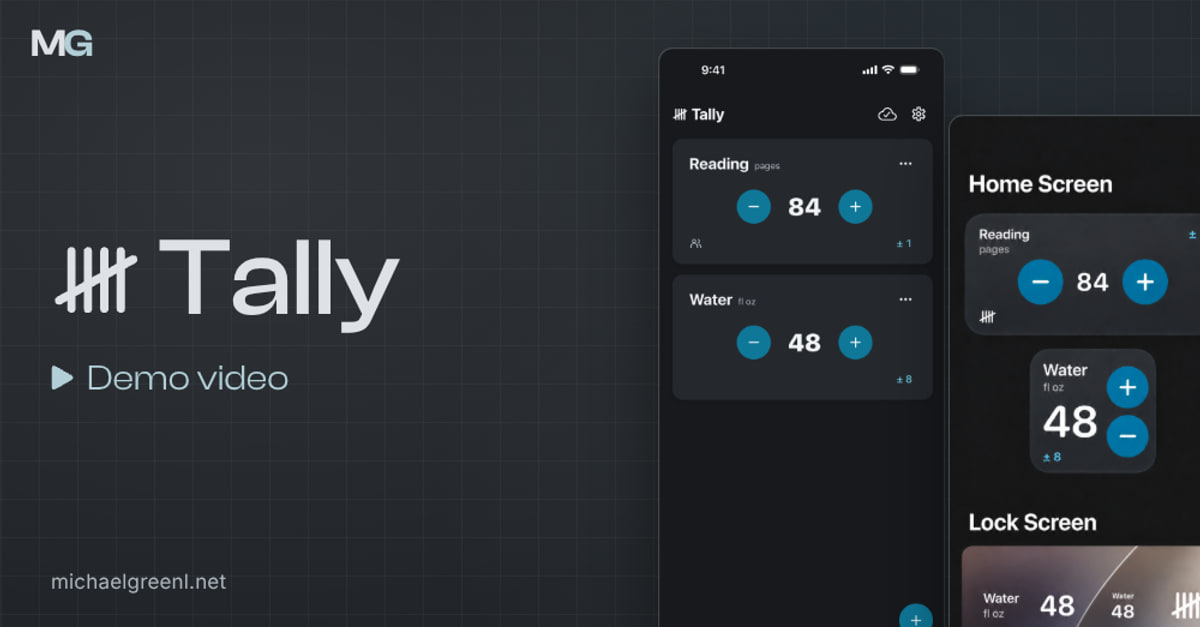
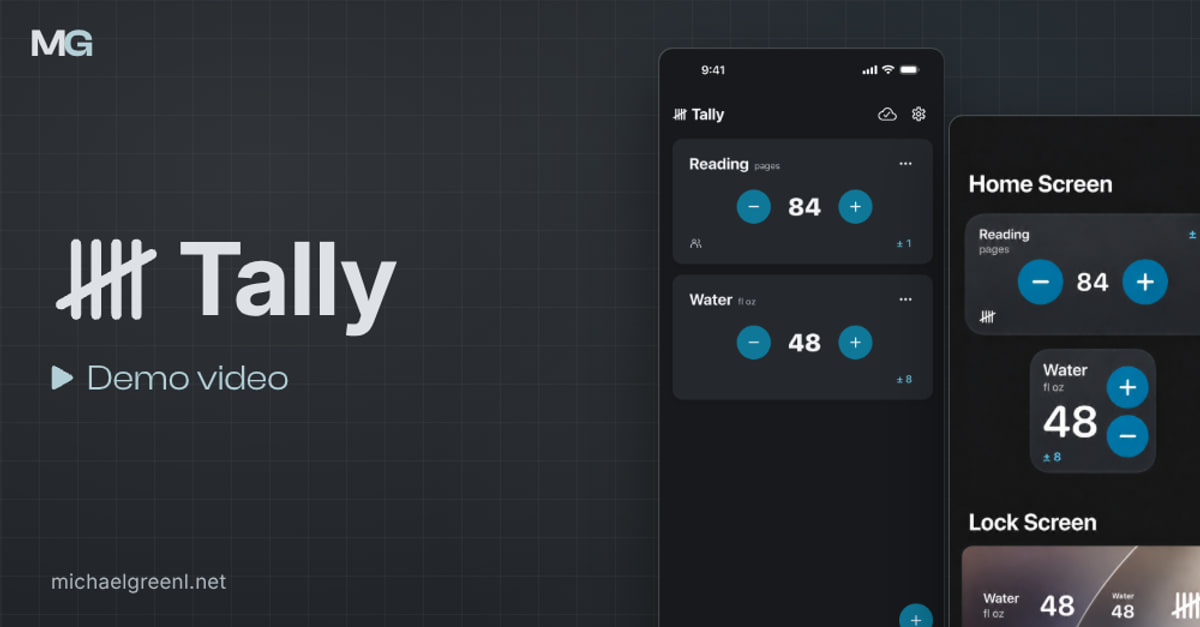
feat: use Inter 24pt SemiBold for Tally titles
Add Inter 24pt SemiBold, subset to Latin. Use weight 600 for Tally titles.
Set the card title to 2.05em and the project window title to 3.8em.

Add the updated Tally link preview image.

Changed region(s): [[0.0308, 0.3636, 0.3392, 0.5455]]

diff --git a/src/components/Project/SelectedProject.vue b/src/components/Project/SelectedProject.vue
@@ -72,7 +72,7 @@ defineExpose({ close });
                         <h2
                             :style="{
                                 fontFamily: project.fontFamily,
-                                fontWeight: project.slug === 'tally' ? '500' : '400',
+                                fontWeight: project.slug === 'tally' ? '600' : '400',
                             }"
                         >
                             {{ project.slug === 'oakley' ? project.title.replace(' / ', ' /\n') : project.title }}

diff --git a/src/components/Project/ProjectCard.vue b/src/components/Project/ProjectCard.vue
@@ -431,7 +431,7 @@ defineExpose({ openProject, projectSelected, scrollToSelectedCard });
                     <h2
                         :style="{
                             fontFamily: project.fontFamily,
-                            fontWeight: project.slug === 'tally' ? '500' : '400',
+                            fontWeight: project.slug === 'tally' ? '600' : '400',
                         }"
                     >
                         {{ project.title }}

diff --git a/public/fonts.css b/public/fonts.css
@@ -57,3 +57,12 @@
     src: url('/fonts/projects/audiowide-normal-400.woff2') format('woff2');
     font-display: block;
 }
+
+/* Inter 24pt SemiBold, subset to Latin to keep the preload small. */
+@font-face {
+    font-family: 'Inter24pt';
+    font-style: normal;
+    font-weight: 600;
+    src: url('/fonts/projects/inter24pt-normal-600.woff2') format('woff2');
+    font-display: block;
+}

diff --git a/src/views/ProjectsView.vue b/src/views/ProjectsView.vue
@@ -173,6 +173,14 @@ async function openProject(project, autoplay = false) {
     }
 }
 
+:deep(.project-card[data-project-slug='tally'] .card-title h2) {
+    font-size: 2.05em !important;
+}
+
+.tally-project-window :deep(.project-title h2) {
+    font-size: 3.8em !important;
+}
+
 .projects-container {
     position: relative;
     padding: $space-10 0 $space-3;

diff --git a/index.html b/index.html
@@ -119,6 +119,13 @@
             type="font/woff2"
             crossorigin="anonymous"
         />
+        <link
+            rel="preload"
+            href="/fonts/projects/inter24pt-normal-600.woff2"
+            as="font"
+            type="font/woff2"
+            crossorigin="anonymous"
+        />
     </head>
     <body>
         <div id="app"></div>
